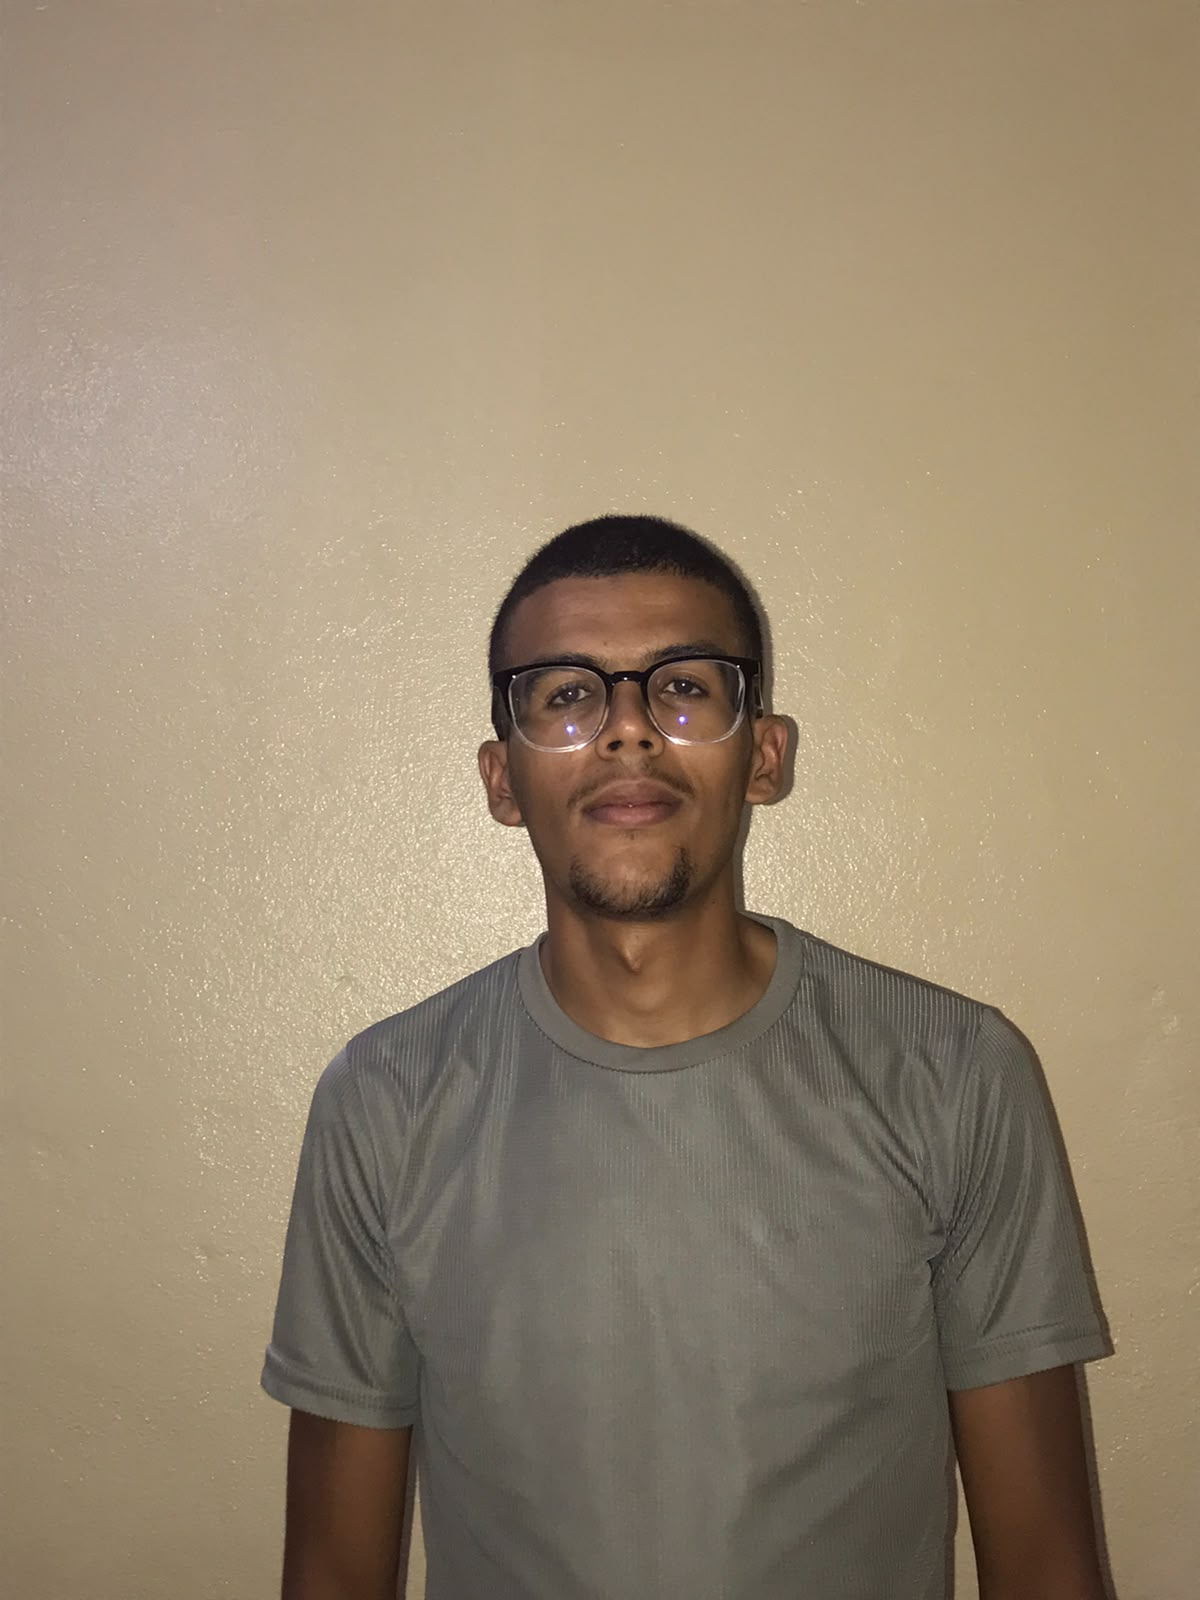
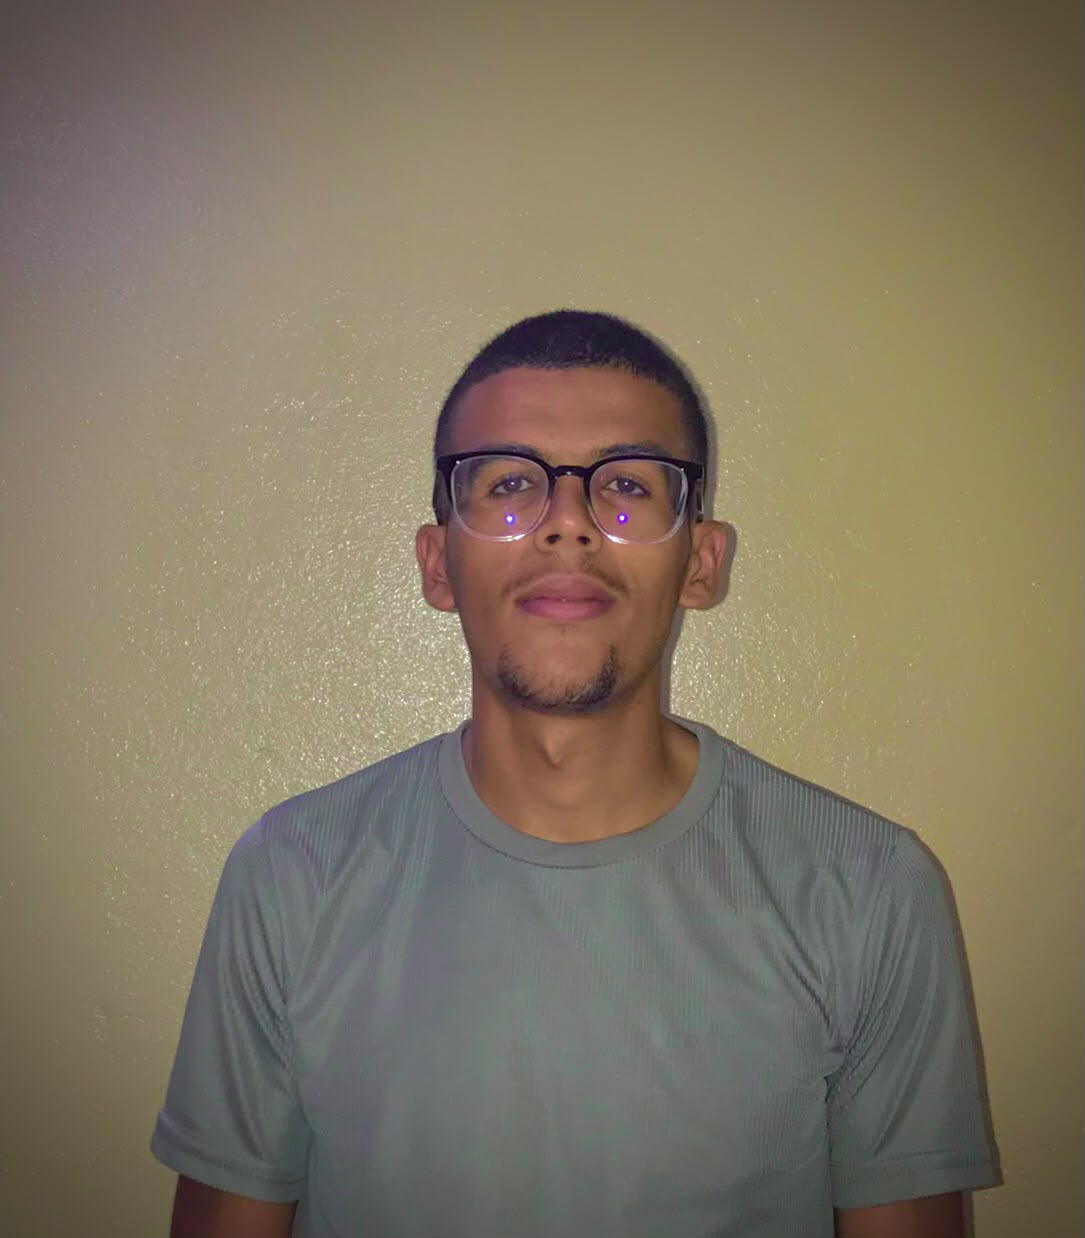
the image updated

diff --git a/src/components/sections/Contact.tsx b/src/components/sections/Contact.tsx
@@ -13,7 +13,7 @@ export default function Contact() {
     >
       <motion.h2
         variants={fadeUp}
-        className="font-display font-bold text-3xl md:text-5xl text-ink mb-8 leading-tight"
+        className="font-display font-bold text-3xl md:text-5xl text-ink mb-8 leading-tight bg-gradient-to-r from-blue-800 to-cyan-300 text-transparent bg-clip-text"
       >
         Let's build something.
       </motion.h2>
@@ -36,7 +36,7 @@ export default function Contact() {
           href="https://github.com/Imrane-BH"
           target="_blank"
           rel="noreferrer"
-          className="hover:text-accent transition-colors"
+          className="hover:text-accent transition-colors hover:scale-105 transition:transform duration-300"
         >
           GitHub
         </a>
@@ -45,11 +45,12 @@ export default function Contact() {
           href="https://www.linkedin.com/in/imrane-bhihi-969077395/"
           target="_blank"
           rel="noreferrer"
-          className="hover:text-accent transition-colors"
+          className="hover:text-accent transition-colors hover:scale-105 transition:transform duration-300"
         >
           LinkedIn
-        </a>
+        </a> 
       </motion.div>
+      <div className=" border-l border-blue-400 pl-3 mt-2 text-ink lg:font-bold">Contact me : 06 82 50 86 42</div>
     </motion.section>
   );
 }

diff --git a/src/components/sections/Process.tsx b/src/components/sections/Process.tsx
@@ -39,12 +39,12 @@ export default function Process() {
         How I Work
       </motion.h2>
 
-      <div className="grid grid-cols-1 md:grid-cols-3">
+      <div className="grid grid-cols-1 md:grid-cols-3 gap-3 ">
         {steps.map((step, i) => (
           <motion.div
             key={step.number}
             variants={fadeUp}
-            className={`relative py-10 md:py-0 md:px-8 ${
+            className={`relative py-10 md:py-0 md:px-8 bg-gradient-to-br from-blue-300 hover:shadow-2xl duration-500 px-6 md:py-8 mt-3 rounded-2xl ${
               i !== 0 ? "border-t md:border-t-0 md:border-l border-hairline" : ""
             }`}
           >

diff --git a/src/components/sections/About.tsx b/src/components/sections/About.tsx
@@ -22,7 +22,7 @@ export default function About() {
         <img
           src={photo}
           alt="Imrane Bhihi"
-          className="w-full max-w-sm mx-auto md:mx-0 aspect-[4/5] object-cover  border border-hairline"
+          className="w-full max-w-sm mx-auto md:mx-0 aspect-[4/5] object-cover  border border-hairline rounded-4xl shadow-2xl"
         />
       </motion.div>
 
